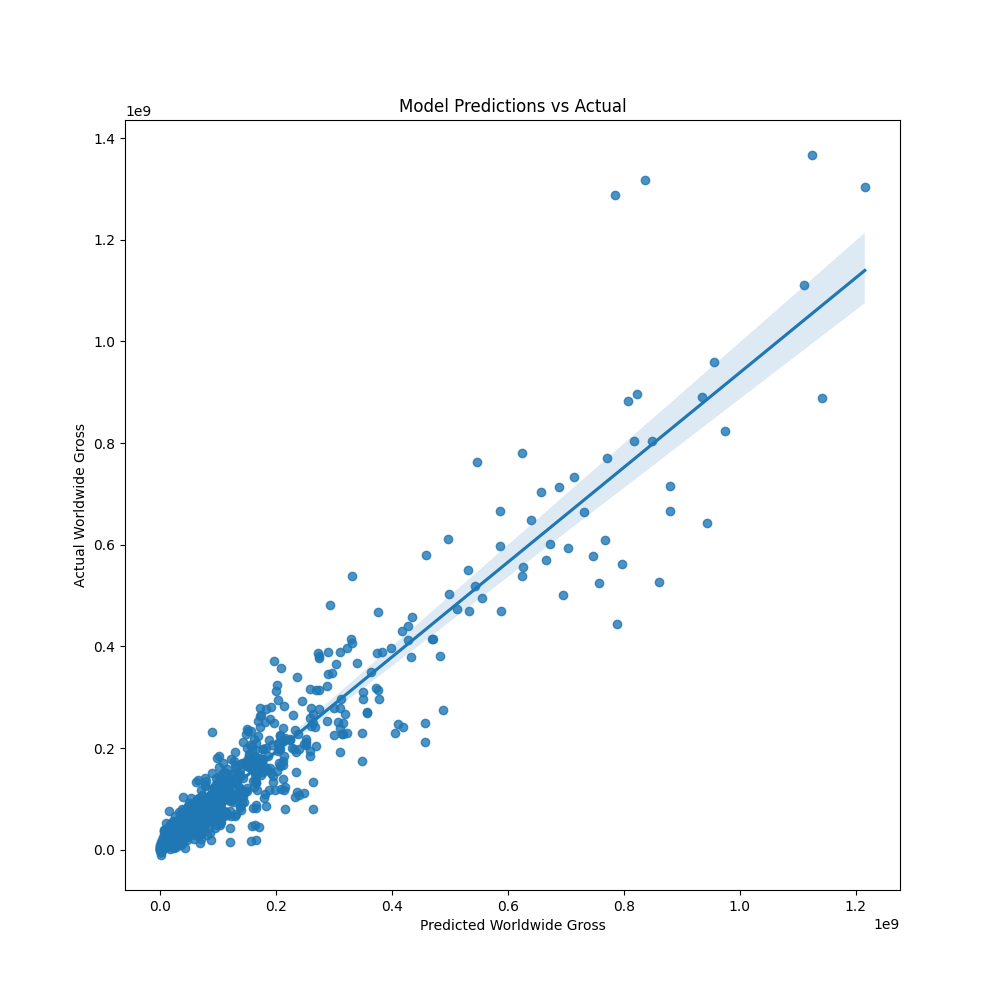
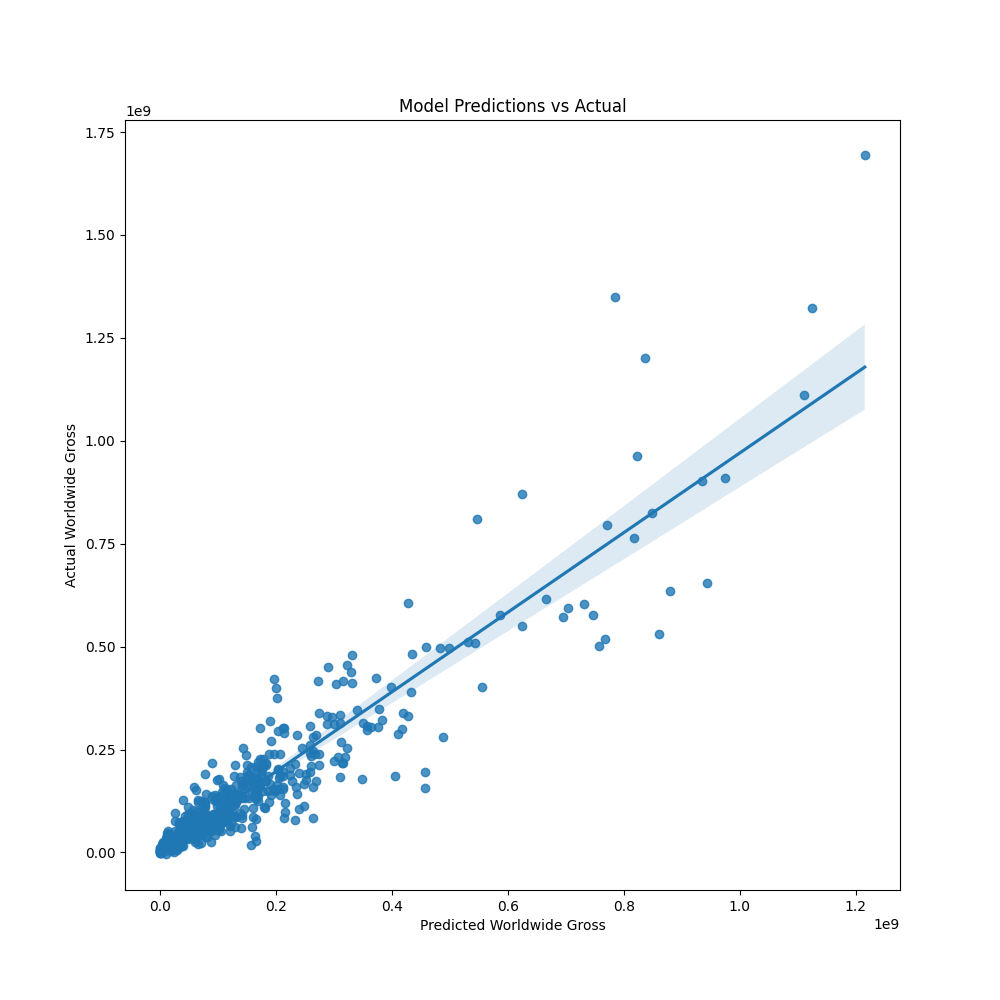
chore: Update models

diff --git a/src/train.py b/src/train.py
@@ -43,10 +43,10 @@ X_test = scaler.transform(X_test)
 
 model = Pipeline([
     ("imputer", SimpleImputer(missing_values=np.nan, strategy="mean")),
-    ("models", XGBRegressor(n_estimators=101))
+    ("models", XGBRegressor(n_estimators=140))
 ])
 
-results = cross_validate(model, X_train, y_train, cv=11, return_train_score=True)
+results = cross_validate(model, X_train, y_train, cv=8, return_train_score=True)
 
 train_score = np.mean(results['train_score'])
 test_score = np.mean(results['test_score'])
